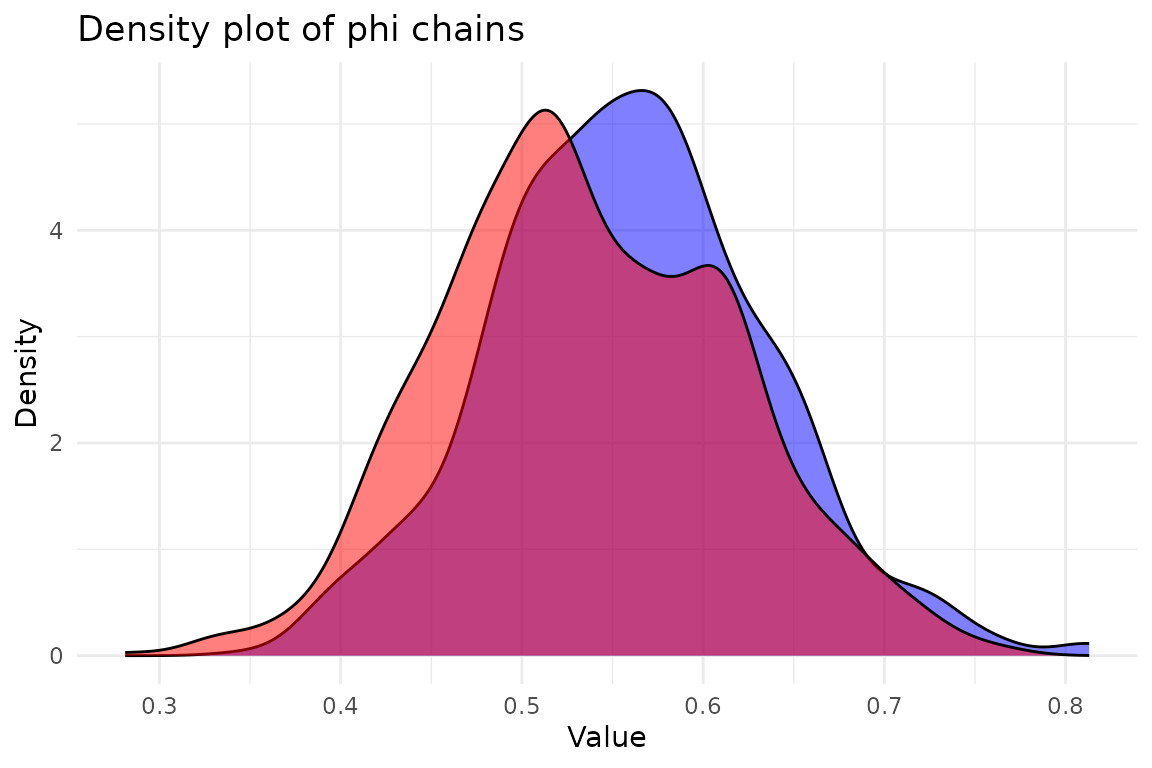
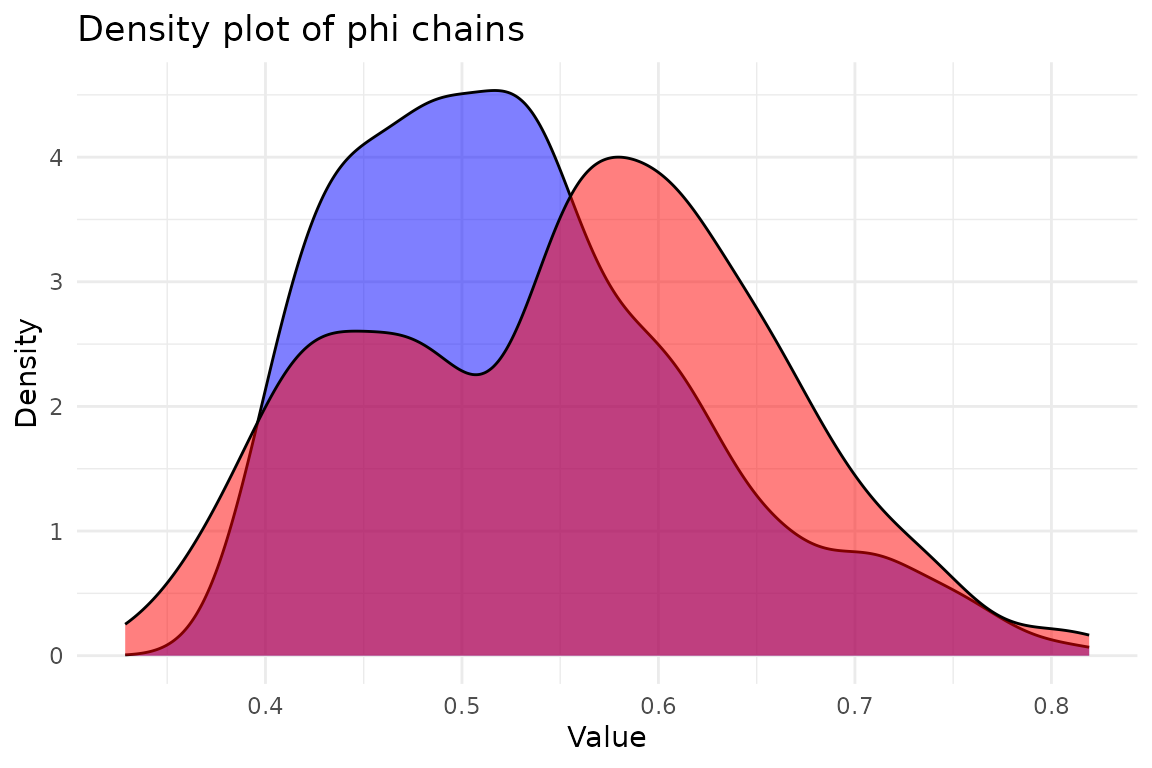
Deploying to gh-pages from @ BjarkeHautop/bayesSSM@d5a0796390c3a9b15811a3c9ff2b43722e7af1f8 🚀

diff --git a/articles/bayesSSM.html b/articles/bayesSSM.html
@@ -26,7 +26,7 @@
 
     <a class="navbar-brand me-2" href="../index.html">bayesSSM</a>
 
-    <small class="nav-text text-muted me-auto" data-bs-toggle="tooltip" data-bs-placement="bottom" title="">0.2.0</small>
+    <small class="nav-text text-muted me-auto" data-bs-toggle="tooltip" data-bs-placement="bottom" title="">0.2.1</small>
 
 
     <button class="navbar-toggler" type="button" data-bs-toggle="collapse" data-bs-target="#navbar" aria-controls="navbar" aria-expanded="false" aria-label="Toggle navigation">
@@ -170,20 +170,24 @@ particles and proposal distribution for the parameters. The tuning can
 be modified by the the function <code>default_tune_control</code>. We
 will use the default settings.</p>
 <p>We fit 2 chains with
-<math display="inline" xmlns="http://www.w3.org/1998/Math/MathML"><semantics><mrow><mi>m</mi><mo>=</mo><mn>2000</mn></mrow><annotation encoding="application/x-tex">m=2000</annotation></semantics></math>
+<math display="inline" xmlns="http://www.w3.org/1998/Math/MathML"><semantics><mrow><mi>m</mi><mo>=</mo><mn>1000</mn></mrow><annotation encoding="application/x-tex">m=1000</annotation></semantics></math>
 iterations for each, with a burn_in of
 <math display="inline" xmlns="http://www.w3.org/1998/Math/MathML"><semantics><mn>500</mn><annotation encoding="application/x-tex">500</annotation></semantics></math>.
-In practice you should run more iterations and chains. To improve
-sampling we specify that metropolis hastings should specify
+We also modify the tuning to only use a pilot run of
+<math display="inline" xmlns="http://www.w3.org/1998/Math/MathML"><semantics><mn>100</mn><annotation encoding="application/x-tex">100</annotation></semantics></math>
+iterations and
+<math display="inline" xmlns="http://www.w3.org/1998/Math/MathML"><semantics><mn>10</mn><annotation encoding="application/x-tex">10</annotation></semantics></math>
+burn-in iterations. In practice you should run more iterations and
+chains. To improve sampling we specify that proposals for
 <math display="inline" xmlns="http://www.w3.org/1998/Math/MathML"><semantics><msub><mi>σ</mi><mi>x</mi></msub><annotation encoding="application/x-tex">\sigma_x</annotation></semantics></math>
 and
 <math display="inline" xmlns="http://www.w3.org/1998/Math/MathML"><semantics><msub><mi>σ</mi><mi>y</mi></msub><annotation encoding="application/x-tex">\sigma_y</annotation></semantics></math>
-on the
+should be on the
 <math display="inline" xmlns="http://www.w3.org/1998/Math/MathML"><semantics><mo>log</mo><annotation encoding="application/x-tex">\log</annotation></semantics></math>-scale.</p>
 <div class="sourceCode" id="cb6"><pre class="downlit sourceCode r">
 <code class="sourceCode R"><span><span class="va">result</span> <span class="op">&lt;-</span> <span class="fu"><a href="../reference/pmmh.html">pmmh</a></span><span class="op">(</span></span>
 <span>  y <span class="op">=</span> <span class="va">y</span>,</span>
-<span>  m <span class="op">=</span> <span class="fl">2000</span>,</span>
+<span>  m <span class="op">=</span> <span class="fl">1000</span>,</span>
 <span>  init_fn <span class="op">=</span> <span class="va">init_fn</span>,</span>
 <span>  transition_fn <span class="op">=</span> <span class="va">transition_fn</span>,</span>
 <span>  log_likelihood_fn <span class="op">=</span> <span class="va">log_likelihood_fn</span>,</span>
@@ -197,40 +201,45 @@ on the
 <span>    sigma_x <span class="op">=</span> <span class="st">"log"</span>,</span>
 <span>    sigma_y <span class="op">=</span> <span class="st">"log"</span></span>
 <span>  <span class="op">)</span>,</span>
+<span>  tune_control <span class="op">=</span> <span class="fu"><a href="../reference/default_tune_control.html">default_tune_control</a></span><span class="op">(</span>pilot_m <span class="op">=</span> <span class="fl">100</span>, pilot_burn_in <span class="op">=</span> <span class="fl">10</span><span class="op">)</span>,</span>
 <span>  verbose <span class="op">=</span> <span class="cn">TRUE</span></span>
 <span><span class="op">)</span></span>
 <span><span class="co">#&gt; Running chain 1...</span></span>
 <span><span class="co">#&gt; Running pilot chain for tuning...</span></span>
 <span><span class="co">#&gt; Pilot chain posterior mean:</span></span>
 <span><span class="co">#&gt;       phi   sigma_x   sigma_y </span></span>
-<span><span class="co">#&gt; 0.8202326 0.9126852 0.5095414</span></span>
+<span><span class="co">#&gt; 0.8544286 0.7186304 0.5237435</span></span>
 <span><span class="co">#&gt; Pilot chain posterior covariance (on transformed space):</span></span>
-<span><span class="co">#&gt;                  phi      sigma_x      sigma_y</span></span>
-<span><span class="co">#&gt; phi      0.004138967 -0.003826011  0.002425618</span></span>
-<span><span class="co">#&gt; sigma_x -0.003826011  0.017718196 -0.008860731</span></span>
-<span><span class="co">#&gt; sigma_y  0.002425618 -0.008860731  0.022968484</span></span>
-<span><span class="co">#&gt; Using 128 particles for PMMH:</span></span>
+<span><span class="co">#&gt;                   phi       sigma_x      sigma_y</span></span>
+<span><span class="co">#&gt; phi      0.0022127563  0.0007426653 -0.002837817</span></span>
+<span><span class="co">#&gt; sigma_x  0.0007426653  0.0004378663 -0.002457423</span></span>
+<span><span class="co">#&gt; sigma_y -0.0028378172 -0.0024574227  0.015648225</span></span>
+<span><span class="co">#&gt; Using 276 particles for PMMH:</span></span>
 <span><span class="co">#&gt; Running particle MCMC chain with tuned settings...</span></span>
 <span><span class="co">#&gt; Running chain 2...</span></span>
 <span><span class="co">#&gt; Running pilot chain for tuning...</span></span>
 <span><span class="co">#&gt; Pilot chain posterior mean:</span></span>
 <span><span class="co">#&gt;       phi   sigma_x   sigma_y </span></span>
-<span><span class="co">#&gt; 0.8425068 0.9447028 0.4638934</span></span>
+<span><span class="co">#&gt; 0.8184567 1.0644745 0.3392965</span></span>
 <span><span class="co">#&gt; Pilot chain posterior covariance (on transformed space):</span></span>
-<span><span class="co">#&gt;                  phi       sigma_x       sigma_y</span></span>
-<span><span class="co">#&gt; phi     0.0036710898  0.0006502838  0.0007375195</span></span>
-<span><span class="co">#&gt; sigma_x 0.0006502838  0.0171536749 -0.0107139660</span></span>
-<span><span class="co">#&gt; sigma_y 0.0007375195 -0.0107139660  0.0255870433</span></span>
-<span><span class="co">#&gt; Using 160 particles for PMMH:</span></span>
+<span><span class="co">#&gt;                 phi      sigma_x      sigma_y</span></span>
+<span><span class="co">#&gt; phi     0.003821179 0.0028295500 0.0011276751</span></span>
+<span><span class="co">#&gt; sigma_x 0.002829550 0.0032576751 0.0007982934</span></span>
+<span><span class="co">#&gt; sigma_y 0.001127675 0.0007982934 0.0004036178</span></span>
+<span><span class="co">#&gt; Using 212 particles for PMMH:</span></span>
 <span><span class="co">#&gt; Running particle MCMC chain with tuned settings...</span></span>
 <span><span class="co">#&gt; PMMH Results Summary:</span></span>
 <span><span class="co">#&gt;  Parameter Mean   SD Median CI.2.5% CI.97.5% ESS  Rhat</span></span>
-<span><span class="co">#&gt;        phi 0.84 0.06   0.84    0.72     0.96 155 1.000</span></span>
-<span><span class="co">#&gt;    sigma_x 0.92 0.14   0.93    0.65     1.20  34 1.001</span></span>
-<span><span class="co">#&gt;    sigma_y 0.42 0.19   0.41    0.11     0.82   5 1.010</span></span>
-<span><span class="co">#&gt; Warning in pmmh(y = y, m = 2000, init_fn = init_fn, transition_fn =</span></span>
+<span><span class="co">#&gt;        phi 0.85 0.06   0.85    0.75     0.97  61 1.008</span></span>
+<span><span class="co">#&gt;    sigma_x 0.81 0.12   0.75    0.69     1.11   1 1.049</span></span>
+<span><span class="co">#&gt;    sigma_y 0.49 0.10   0.47    0.34     0.75   3 1.000</span></span>
+<span><span class="co">#&gt; Warning in pmmh(y = y, m = 1000, init_fn = init_fn, transition_fn =</span></span>
 <span><span class="co">#&gt; transition_fn, : Some ESS values are below 400, indicating poor mixing.</span></span>
-<span><span class="co">#&gt; Consider running the chains for more iterations.</span></span></code></pre></div>
+<span><span class="co">#&gt; Consider running the chains for more iterations.</span></span>
+<span><span class="co">#&gt; Warning in pmmh(y = y, m = 1000, init_fn = init_fn, transition_fn =</span></span>
+<span><span class="co">#&gt; transition_fn, : Some Rhat values are above 1.01, indicating that the chains</span></span>
+<span><span class="co">#&gt; have not converged. Consider running the chains for more iterations and/or</span></span>
+<span><span class="co">#&gt; increase burn_in.</span></span></code></pre></div>
 <p>We see that the chains gives convergence issues, indicating that we
 should run it for more iterations, but we ignore this issue in this
 Vignette.</p>
@@ -241,9 +250,9 @@ be printed from any <code>pmmh_output</code> object by calling
 <code class="sourceCode R"><span><span class="fu"><a href="https://rdrr.io/r/base/print.html" class="external-link">print</a></span><span class="op">(</span><span class="va">result</span><span class="op">)</span></span>
 <span><span class="co">#&gt; PMMH Results Summary:</span></span>
 <span><span class="co">#&gt;  Parameter Mean   SD Median CI.2.5% CI.97.5% ESS  Rhat</span></span>
-<span><span class="co">#&gt;        phi 0.84 0.06   0.84    0.72     0.96 155 1.000</span></span>
-<span><span class="co">#&gt;    sigma_x 0.92 0.14   0.93    0.65     1.20  34 1.001</span></span>
-<span><span class="co">#&gt;    sigma_y 0.42 0.19   0.41    0.11     0.82   5 1.010</span></span></code></pre></div>
+<span><span class="co">#&gt;        phi 0.85 0.06   0.85    0.75     0.97  61 1.008</span></span>
+<span><span class="co">#&gt;    sigma_x 0.81 0.12   0.75    0.69     1.11   1 1.049</span></span>
+<span><span class="co">#&gt;    sigma_y 0.49 0.10   0.47    0.34     0.75   3 1.000</span></span></code></pre></div>
 <p>The chains are saved as <code>theta_chain</code></p>
 <div class="sourceCode" id="cb8"><pre class="downlit sourceCode r">
 <code class="sourceCode R"><span><span class="va">chains</span> <span class="op">&lt;-</span> <span class="va">result</span><span class="op">$</span><span class="va">theta_chain</span></span>

diff --git a/reference/dot-compute_log_jacobian.html b/reference/dot-compute_log_jacobian.html
@@ -1,5 +1,5 @@
 <!DOCTYPE html>
-<!-- Generated by pkgdown: do not edit by hand --><html lang="en"><head><meta http-equiv="Content-Type" content="text/html; charset=UTF-8"><meta charset="utf-8"><meta http-equiv="X-UA-Compatible" content="IE=edge"><meta name="viewport" content="width=device-width, initial-scale=1, shrink-to-fit=no"><title>Internal function to back-transform parameters — .back_transform_params • bayesSSM</title><!-- favicons --><link rel="icon" type="image/png" sizes="16x16" href="../favicon-16x16.png"><link rel="icon" type="image/png" sizes="32x32" href="../favicon-32x32.png"><link rel="apple-touch-icon" type="image/png" sizes="180x180" href="../apple-touch-icon.png"><link rel="apple-touch-icon" type="image/png" sizes="120x120" href="../apple-touch-icon-120x120.png"><link rel="apple-touch-icon" type="image/png" sizes="76x76" href="../apple-touch-icon-76x76.png"><link rel="apple-touch-icon" type="image/png" sizes="60x60" href="../apple-touch-icon-60x60.png"><script src="../deps/jquery-3.6.0/jquery-3.6.0.min.js"></script><meta name="viewport" content="width=device-width, initial-scale=1, shrink-to-fit=no"><link href="../deps/bootstrap-5.3.1/bootstrap.min.css" rel="stylesheet"><script src="../deps/bootstrap-5.3.1/bootstrap.bundle.min.js"></script><link href="../deps/font-awesome-6.5.2/css/all.min.css" rel="stylesheet"><link href="../deps/font-awesome-6.5.2/css/v4-shims.min.css" rel="stylesheet"><script src="../deps/headroom-0.11.0/headroom.min.js"></script><script src="../deps/headroom-0.11.0/jQuery.headroom.min.js"></script><script src="../deps/bootstrap-toc-1.0.1/bootstrap-toc.min.js"></script><script src="../deps/clipboard.js-2.0.11/clipboard.min.js"></script><script src="../deps/search-1.0.0/autocomplete.jquery.min.js"></script><script src="../deps/search-1.0.0/fuse.min.js"></script><script src="../deps/search-1.0.0/mark.min.js"></script><!-- pkgdown --><script src="../pkgdown.js"></script><meta property="og:title" content="Internal function to back-transform parameters — .back_transform_params"><meta name="description" content="Internal function to back-transform parameters"><meta property="og:description" content="Internal function to back-transform parameters"><meta property="og:image" content="https://bjarkehautop.github.io/bayesSSM/logo.png"></head><body>
+<!-- Generated by pkgdown: do not edit by hand --><html lang="en"><head><meta http-equiv="Content-Type" content="text/html; charset=UTF-8"><meta charset="utf-8"><meta http-equiv="X-UA-Compatible" content="IE=edge"><meta name="viewport" content="width=device-width, initial-scale=1, shrink-to-fit=no"><title>Internal function to compute the Jacobian of the transformation — .compute_log_jacobian • bayesSSM</title><!-- favicons --><link rel="icon" type="image/png" sizes="16x16" href="../favicon-16x16.png"><link rel="icon" type="image/png" sizes="32x32" href="../favicon-32x32.png"><link rel="apple-touch-icon" type="image/png" sizes="180x180" href="../apple-touch-icon.png"><link rel="apple-touch-icon" type="image/png" sizes="120x120" href="../apple-touch-icon-120x120.png"><link rel="apple-touch-icon" type="image/png" sizes="76x76" href="../apple-touch-icon-76x76.png"><link rel="apple-touch-icon" type="image/png" sizes="60x60" href="../apple-touch-icon-60x60.png"><script src="../deps/jquery-3.6.0/jquery-3.6.0.min.js"></script><meta name="viewport" content="width=device-width, initial-scale=1, shrink-to-fit=no"><link href="../deps/bootstrap-5.3.1/bootstrap.min.css" rel="stylesheet"><script src="../deps/bootstrap-5.3.1/bootstrap.bundle.min.js"></script><link href="../deps/font-awesome-6.5.2/css/all.min.css" rel="stylesheet"><link href="../deps/font-awesome-6.5.2/css/v4-shims.min.css" rel="stylesheet"><script src="../deps/headroom-0.11.0/headroom.min.js"></script><script src="../deps/headroom-0.11.0/jQuery.headroom.min.js"></script><script src="../deps/bootstrap-toc-1.0.1/bootstrap-toc.min.js"></script><script src="../deps/clipboard.js-2.0.11/clipboard.min.js"></script><script src="../deps/search-1.0.0/autocomplete.jquery.min.js"></script><script src="../deps/search-1.0.0/fuse.min.js"></script><script src="../deps/search-1.0.0/mark.min.js"></script><!-- pkgdown --><script src="../pkgdown.js"></script><meta property="og:title" content="Internal function to compute the Jacobian of the transformation — .compute_log_jacobian"><meta name="description" content="Internal function to compute the Jacobian of the transformation"><meta property="og:description" content="Internal function to compute the Jacobian of the transformation"><meta property="og:image" content="https://bjarkehautop.github.io/bayesSSM/logo.png"></head><body>
     <a href="#main" class="visually-hidden-focusable">Skip to contents</a>
 
 
@@ -31,26 +31,26 @@
 </nav><div class="container template-reference-topic">
 <div class="row">
   <main id="main" class="col-md-9"><div class="page-header">
-      <img src="../logo.png" class="logo" alt=""><h1>Internal function to back-transform parameters</h1>
+      <img src="../logo.png" class="logo" alt=""><h1>Internal function to compute the Jacobian of the transformation</h1>
       <small class="dont-index">Source: <a href="https://github.com/BjarkeHautop/bayesSSM/blob/master/R/utils.R" class="external-link"><code>R/utils.R</code></a></small>
-      <div class="d-none name"><code>dot-back_transform_params.Rd</code></div>
+      <div class="d-none name"><code>dot-compute_log_jacobian.Rd</code></div>
     </div>
 
     <div class="ref-description section level2">
-    <p>Internal function to back-transform parameters</p>
+    <p>Internal function to compute the Jacobian of the transformation</p>
     </div>
 
     <div class="section level2">
     <h2 id="ref-usage">Usage<a class="anchor" aria-label="anchor" href="#ref-usage"></a></h2>
-    <div class="sourceCode"><pre class="sourceCode r"><code><span><span class="fu">.back_transform_params</span><span class="op">(</span><span class="va">theta_trans</span>, <span class="va">transform</span><span class="op">)</span></span></code></pre></div>
+    <div class="sourceCode"><pre class="sourceCode r"><code><span><span class="fu">.compute_log_jacobian</span><span class="op">(</span><span class="va">theta</span>, <span class="va">transform</span><span class="op">)</span></span></code></pre></div>
     </div>
 
     <div class="section level2">
     <h2 id="arguments">Arguments<a class="anchor" aria-label="anchor" href="#arguments"></a></h2>
 
 
-<dl><dt id="arg-theta-trans">theta_trans<a class="anchor" aria-label="anchor" href="#arg-theta-trans"></a></dt>
-<dd><p>transformed parameter vector</p></dd>
+<dl><dt id="arg-theta">theta<a class="anchor" aria-label="anchor" href="#arg-theta"></a></dt>
+<dd><p>parameter vector (on original scale)</p></dd>
 
 
 <dt id="arg-transform">transform<a class="anchor" aria-label="anchor" href="#arg-transform"></a></dt>
@@ -59,7 +59,7 @@
 </dl></div>
     <div class="section level2">
     <h2 id="value">Value<a class="anchor" aria-label="anchor" href="#value"></a></h2>
-    <p>original parameter vector</p>
+    <p>log-Jacobian of the transformation</p>
     </div>
 
   </main><aside class="col-md-3"><nav id="toc" aria-label="Table of contents"><h2>On this page</h2>

diff --git a/articles/sir-model.html b/articles/sir-model.html
@@ -26,7 +26,7 @@
 
     <a class="navbar-brand me-2" href="../index.html">bayesSSM</a>
 
-    <small class="nav-text text-muted me-auto" data-bs-toggle="tooltip" data-bs-placement="bottom" title="">0.2.0</small>
+    <small class="nav-text text-muted me-auto" data-bs-toggle="tooltip" data-bs-placement="bottom" title="">0.2.1</small>
 
 
     <button class="navbar-toggler" type="button" data-bs-toggle="collapse" data-bs-target="#navbar" aria-controls="navbar" aria-expanded="false" aria-label="Toggle navigation">
@@ -382,7 +382,8 @@ for the SIR model.</p>
 <span><span class="op">}</span></span></code></pre></div>
 <p>Now we can run the PMMH algorithm to estimate the parameters. For
 this vignette we only use a small number of iterations (1000) and 2
-chains. In practice, these should be higher.</p>
+chains (and we also modify the tuning to only use 100 iterations with a
+burn-in of 10). In practice, these should be much higher.</p>
 <div class="sourceCode" id="cb7"><pre class="downlit sourceCode r">
 <code class="sourceCode R"><span><span class="va">result</span> <span class="op">&lt;-</span> <span class="fu">bayesSSM</span><span class="fu">::</span><span class="fu"><a href="../reference/pmmh.html">pmmh</a></span><span class="op">(</span></span>
 <span>  y <span class="op">=</span> <span class="va">observations</span>,</span>
@@ -395,7 +396,7 @@ chains. In practice, these should be higher.</p>
 <span>  burn_in <span class="op">=</span> <span class="fl">200</span>,</span>
 <span>  num_chains <span class="op">=</span> <span class="fl">2</span>,</span>
 <span>  param_transform <span class="op">=</span> <span class="fu"><a href="https://rdrr.io/r/base/list.html" class="external-link">list</a></span><span class="op">(</span>lambda <span class="op">=</span> <span class="st">"log"</span>, gamma <span class="op">=</span> <span class="st">"log"</span><span class="op">)</span>,</span>
-<span>  tune_control <span class="op">=</span> <span class="fu"><a href="../reference/default_tune_control.html">default_tune_control</a></span><span class="op">(</span>pilot_proposal_sd <span class="op">=</span> <span class="fl">0.1</span><span class="op">)</span>,</span>
+<span>  tune_control <span class="op">=</span> <span class="fu"><a href="../reference/default_tune_control.html">default_tune_control</a></span><span class="op">(</span>pilot_m <span class="op">=</span> <span class="fl">100</span>, pilot_burn_in <span class="op">=</span> <span class="fl">10</span><span class="op">)</span>,</span>
 <span>  verbose <span class="op">=</span> <span class="cn">TRUE</span>,</span>
 <span>  seed <span class="op">=</span> <span class="fl">1405</span>,</span>
 <span><span class="op">)</span></span>
@@ -403,28 +404,28 @@ chains. In practice, these should be higher.</p>
 <span><span class="co">#&gt; Running pilot chain for tuning...</span></span>
 <span><span class="co">#&gt; Pilot chain posterior mean:</span></span>
 <span><span class="co">#&gt;    lambda     gamma </span></span>
-<span><span class="co">#&gt; 0.5504843 0.2090465</span></span>
+<span><span class="co">#&gt; 0.5548529 0.1913232</span></span>
 <span><span class="co">#&gt; Pilot chain posterior covariance (on transformed space):</span></span>
 <span><span class="co">#&gt;              lambda        gamma</span></span>
-<span><span class="co">#&gt; lambda 0.0045648972 0.0009780776</span></span>
-<span><span class="co">#&gt; gamma  0.0009780776 0.0004481566</span></span>
+<span><span class="co">#&gt; lambda 0.0008844233 1.541392e-04</span></span>
+<span><span class="co">#&gt; gamma  0.0001541392 2.686372e-05</span></span>
 <span><span class="co">#&gt; Using 100 particles for PMMH:</span></span>
 <span><span class="co">#&gt; Running particle MCMC chain with tuned settings...</span></span>
 <span><span class="co">#&gt; Running chain 2...</span></span>
 <span><span class="co">#&gt; Running pilot chain for tuning...</span></span>
 <span><span class="co">#&gt; Pilot chain posterior mean:</span></span>
 <span><span class="co">#&gt;    lambda     gamma </span></span>
-<span><span class="co">#&gt; 0.5303249 0.1992298</span></span>
+<span><span class="co">#&gt; 0.4330822 0.1846308</span></span>
 <span><span class="co">#&gt; Pilot chain posterior covariance (on transformed space):</span></span>
 <span><span class="co">#&gt;             lambda        gamma</span></span>
-<span><span class="co">#&gt; lambda 0.007712153 0.0019398601</span></span>
-<span><span class="co">#&gt; gamma  0.001939860 0.0007560087</span></span>
+<span><span class="co">#&gt; lambda 0.002879192 0.0014148984</span></span>
+<span><span class="co">#&gt; gamma  0.001414898 0.0008559071</span></span>
 <span><span class="co">#&gt; Using 100 particles for PMMH:</span></span>
 <span><span class="co">#&gt; Running particle MCMC chain with tuned settings...</span></span>
 <span><span class="co">#&gt; PMMH Results Summary:</span></span>
 <span><span class="co">#&gt;  Parameter Mean   SD Median CI.2.5% CI.97.5% ESS  Rhat</span></span>
-<span><span class="co">#&gt;     lambda 0.55 0.08   0.55    0.40     0.71  85 1.063</span></span>
-<span><span class="co">#&gt;      gamma 0.20 0.02   0.20    0.16     0.25 145 1.008</span></span>
+<span><span class="co">#&gt;     lambda 0.54 0.10   0.54    0.39     0.74  25 1.117</span></span>
+<span><span class="co">#&gt;      gamma 0.20 0.02   0.19    0.16     0.25   3 1.051</span></span>
 <span><span class="co">#&gt; Warning in bayesSSM::pmmh(y = observations, m = 1000, init_fn =</span></span>
 <span><span class="co">#&gt; init_fn_epidemic, : Some ESS values are below 400, indicating poor mixing.</span></span>
 <span><span class="co">#&gt; Consider running the chains for more iterations.</span></span>

diff --git a/reference/print.pmmh_output.html b/reference/print.pmmh_output.html
@@ -7,7 +7,7 @@
 
     <a class="navbar-brand me-2" href="../index.html">bayesSSM</a>
 
-    <small class="nav-text text-muted me-auto" data-bs-toggle="tooltip" data-bs-placement="bottom" title="">0.2.0</small>
+    <small class="nav-text text-muted me-auto" data-bs-toggle="tooltip" data-bs-placement="bottom" title="">0.2.1</small>
 
 
     <button class="navbar-toggler" type="button" data-bs-toggle="collapse" data-bs-target="#navbar" aria-controls="navbar" aria-expanded="false" aria-label="Toggle navigation">
@@ -65,9 +65,23 @@
 
     <div class="section level2">
     <h2 id="ref-examples">Examples<a class="anchor" aria-label="anchor" href="#ref-examples"></a></h2>
-    <div class="sourceCode"><pre class="sourceCode r"><code><span class="r-in"><span><span class="kw">if</span> <span class="op">(</span><span class="cn">FALSE</span><span class="op">)</span> <span class="op">{</span> <span class="co"># \dontrun{</span></span></span>
-<span class="r-in"><span><span class="fu"><a href="https://rdrr.io/r/base/print.html" class="external-link">print</a></span><span class="op">(</span><span class="va">pmmh_output</span><span class="op">)</span></span></span>
-<span class="r-in"><span><span class="op">}</span> <span class="co"># }</span></span></span>
+    <div class="sourceCode"><pre class="sourceCode r"><code><span class="r-in"><span><span class="co"># Create dummy chains for two parameters across two chains</span></span></span>
+<span class="r-in"><span><span class="fu"><a href="https://rdrr.io/r/base/Random.html" class="external-link">set.seed</a></span><span class="op">(</span><span class="fl">1405</span><span class="op">)</span></span></span>
+<span class="r-in"><span><span class="va">chain1</span> <span class="op">&lt;-</span> <span class="fu"><a href="https://rdrr.io/r/base/data.frame.html" class="external-link">data.frame</a></span><span class="op">(</span>param1 <span class="op">=</span> <span class="fu"><a href="https://rdrr.io/r/stats/Normal.html" class="external-link">rnorm</a></span><span class="op">(</span><span class="fl">100</span><span class="op">)</span>, param2 <span class="op">=</span> <span class="fu"><a href="https://rdrr.io/r/stats/Normal.html" class="external-link">rnorm</a></span><span class="op">(</span><span class="fl">100</span><span class="op">)</span><span class="op">)</span></span></span>
+<span class="r-in"><span><span class="va">chain2</span> <span class="op">&lt;-</span> <span class="fu"><a href="https://rdrr.io/r/base/data.frame.html" class="external-link">data.frame</a></span><span class="op">(</span>param1 <span class="op">=</span> <span class="fu"><a href="https://rdrr.io/r/stats/Normal.html" class="external-link">rnorm</a></span><span class="op">(</span><span class="fl">100</span><span class="op">)</span>, param2 <span class="op">=</span> <span class="fu"><a href="https://rdrr.io/r/stats/Normal.html" class="external-link">rnorm</a></span><span class="op">(</span><span class="fl">100</span><span class="op">)</span><span class="op">)</span></span></span>
+<span class="r-in"><span><span class="va">dummy_output</span> <span class="op">&lt;-</span> <span class="fu"><a href="https://rdrr.io/r/base/list.html" class="external-link">list</a></span><span class="op">(</span></span></span>
+<span class="r-in"><span>  theta_chain <span class="op">=</span> <span class="fu"><a href="https://rdrr.io/r/base/list.html" class="external-link">list</a></span><span class="op">(</span><span class="va">chain1</span>, <span class="va">chain2</span><span class="op">)</span>,</span></span>
+<span class="r-in"><span>  diagnostics <span class="op">=</span> <span class="fu"><a href="https://rdrr.io/r/base/list.html" class="external-link">list</a></span><span class="op">(</span></span></span>
+<span class="r-in"><span>    ess <span class="op">=</span> <span class="fu"><a href="https://rdrr.io/r/base/c.html" class="external-link">c</a></span><span class="op">(</span>param1 <span class="op">=</span> <span class="fl">200</span>, param2 <span class="op">=</span> <span class="fl">190</span><span class="op">)</span>,</span></span>
+<span class="r-in"><span>    rhat <span class="op">=</span> <span class="fu"><a href="https://rdrr.io/r/base/c.html" class="external-link">c</a></span><span class="op">(</span>param1 <span class="op">=</span> <span class="fl">1.01</span>, param2 <span class="op">=</span> <span class="fl">1.00</span><span class="op">)</span></span></span>
+<span class="r-in"><span>  <span class="op">)</span></span></span>
+<span class="r-in"><span><span class="op">)</span></span></span>
+<span class="r-in"><span><span class="fu"><a href="https://rdrr.io/r/base/class.html" class="external-link">class</a></span><span class="op">(</span><span class="va">dummy_output</span><span class="op">)</span> <span class="op">&lt;-</span> <span class="st">"pmmh_output"</span></span></span>
+<span class="r-in"><span><span class="fu"><a href="https://rdrr.io/r/base/print.html" class="external-link">print</a></span><span class="op">(</span><span class="va">dummy_output</span><span class="op">)</span></span></span>
+<span class="r-out co"><span class="r-pr">#&gt;</span> PMMH Results Summary:</span>
+<span class="r-out co"><span class="r-pr">#&gt;</span>  Parameter  Mean   SD Median CI.2.5% CI.97.5% ESS Rhat</span>
+<span class="r-out co"><span class="r-pr">#&gt;</span>     param1 -0.02 0.94   0.04   -1.85     1.71 200 1.01</span>
+<span class="r-out co"><span class="r-pr">#&gt;</span>     param2  0.03 1.01   0.00   -1.84     2.40 190 1.00</span>
 </code></pre></div>
     </div>
   </main><aside class="col-md-3"><nav id="toc" aria-label="Table of contents"><h2>On this page</h2>

diff --git a/reference/rhat.html b/reference/rhat.html
@@ -7,7 +7,7 @@
 
     <a class="navbar-brand me-2" href="../index.html">bayesSSM</a>
 
-    <small class="nav-text text-muted me-auto" data-bs-toggle="tooltip" data-bs-placement="bottom" title="">0.2.0</small>
+    <small class="nav-text text-muted me-auto" data-bs-toggle="tooltip" data-bs-placement="bottom" title="">0.2.1</small>
 
 
     <button class="navbar-toggler" type="button" data-bs-toggle="collapse" data-bs-target="#navbar" aria-controls="navbar" aria-expanded="false" aria-label="Toggle navigation">
@@ -70,7 +70,7 @@
     <h2 id="ref-examples">Examples<a class="anchor" aria-label="anchor" href="#ref-examples"></a></h2>
     <div class="sourceCode"><pre class="sourceCode r"><code><span class="r-in"><span><span class="va">chains</span> <span class="op">&lt;-</span> <span class="fu"><a href="https://rdrr.io/r/base/matrix.html" class="external-link">matrix</a></span><span class="op">(</span><span class="fu"><a href="https://rdrr.io/r/stats/Normal.html" class="external-link">rnorm</a></span><span class="op">(</span><span class="fl">3000</span><span class="op">)</span>, nrow <span class="op">=</span> <span class="fl">1000</span>, ncol <span class="op">=</span> <span class="fl">3</span><span class="op">)</span></span></span>
 <span class="r-in"><span><span class="fu">rhat</span><span class="op">(</span><span class="va">chains</span><span class="op">)</span></span></span>
-<span class="r-out co"><span class="r-pr">#&gt;</span> [1] 1.002278</span>
+<span class="r-out co"><span class="r-pr">#&gt;</span> [1] 1</span>
 </code></pre></div>
     </div>
   </main><aside class="col-md-3"><nav id="toc" aria-label="Table of contents"><h2>On this page</h2>

diff --git a/reference/pmmh.html b/reference/pmmh.html
@@ -13,7 +13,7 @@ particles for the particle filter, and then runs the main PMMH chain."><meta pro
 
     <a class="navbar-brand me-2" href="../index.html">bayesSSM</a>
 
-    <small class="nav-text text-muted me-auto" data-bs-toggle="tooltip" data-bs-placement="bottom" title="">0.2.0</small>
+    <small class="nav-text text-muted me-auto" data-bs-toggle="tooltip" data-bs-placement="bottom" title="">0.2.1</small>
 
 
     <button class="navbar-toggler" type="button" data-bs-toggle="collapse" data-bs-target="#navbar" aria-controls="navbar" aria-expanded="false" aria-label="Toggle navigation">
@@ -130,8 +130,8 @@ Must be one of <code>"stratified"</code>, <code>"systematic"</code>, or
 <dt id="arg-param-transform">param_transform<a class="anchor" aria-label="anchor" href="#arg-param-transform"></a></dt>
 <dd><p>An optional character vector that specifies the
 transformation applied to each parameter. Currently supports
-<code>"log"</code> and <code>"identity"</code>. If <code>NULL</code>, the <code>"identity"</code>
-transformation is used for all parameters.</p></dd>
+<code>"log"</code>, <code>"logit"</code>, and <code>"identity"</code>. If <code>NULL</code>, the
+<code>"identity"</code> transformation is used for all parameters.</p></dd>
 
 
 <dt id="arg-tune-control">tune_control<a class="anchor" aria-label="anchor" href="#arg-tune-control"></a></dt>

diff --git a/authors.html b/authors.html
@@ -7,7 +7,7 @@
 
     <a class="navbar-brand me-2" href="index.html">bayesSSM</a>
 
-    <small class="nav-text text-muted me-auto" data-bs-toggle="tooltip" data-bs-placement="bottom" title="">0.2.0</small>
+    <small class="nav-text text-muted me-auto" data-bs-toggle="tooltip" data-bs-placement="bottom" title="">0.2.1</small>
 
 
     <button class="navbar-toggler" type="button" data-bs-toggle="collapse" data-bs-target="#navbar" aria-controls="navbar" aria-expanded="false" aria-label="Toggle navigation">
@@ -49,13 +49,13 @@
 
       <p>Hautop B (2025).
 <em>bayesSSM: Bayesian Methods for State Space Models</em>.
-R package version 0.2.0, https://bjarkehautop.github.io/bayesSSM/, <a href="https://github.com/BjarkeHautop/bayesSSM" class="external-link">https://github.com/BjarkeHautop/bayesSSM</a>.
+R package version 0.2.1, https://bjarkehautop.github.io/bayesSSM/, <a href="https://github.com/BjarkeHautop/bayesSSM" class="external-link">https://github.com/BjarkeHautop/bayesSSM</a>.
 </p>
       <pre>@Manual{,
   title = {bayesSSM: Bayesian Methods for State Space Models},
   author = {Bjarke Hautop},
   year = {2025},
-  note = {R package version 0.2.0, https://bjarkehautop.github.io/bayesSSM/},
+  note = {R package version 0.2.1, https://bjarkehautop.github.io/bayesSSM/},
   url = {https://github.com/BjarkeHautop/bayesSSM},
 }</pre>
     </div>

diff --git a/reference/particle_filter.html b/reference/particle_filter.html
@@ -25,7 +25,7 @@ It is recommended to use either SISR or SISAR to avoid weight degeneracy."><meta
 
     <a class="navbar-brand me-2" href="../index.html">bayesSSM</a>
 
-    <small class="nav-text text-muted me-auto" data-bs-toggle="tooltip" data-bs-placement="bottom" title="">0.2.0</small>
+    <small class="nav-text text-muted me-auto" data-bs-toggle="tooltip" data-bs-placement="bottom" title="">0.2.1</small>
 
 
     <button class="navbar-toggler" type="button" data-bs-toggle="collapse" data-bs-target="#navbar" aria-controls="navbar" aria-expanded="false" aria-label="Toggle navigation">

diff --git a/reference/dot-resample_multinomial.html b/reference/dot-resample_multinomial.html
@@ -9,7 +9,7 @@ These functions implement multinomial, stratified, and systematic resampling."><
 
     <a class="navbar-brand me-2" href="../index.html">bayesSSM</a>
 
-    <small class="nav-text text-muted me-auto" data-bs-toggle="tooltip" data-bs-placement="bottom" title="">0.2.0</small>
+    <small class="nav-text text-muted me-auto" data-bs-toggle="tooltip" data-bs-placement="bottom" title="">0.2.1</small>
 
 
     <button class="navbar-toggler" type="button" data-bs-toggle="collapse" data-bs-target="#navbar" aria-controls="navbar" aria-expanded="false" aria-label="Toggle navigation">

diff --git a/reference/dot-pilot_run.html b/reference/dot-pilot_run.html
@@ -13,7 +13,7 @@ target number of particles for the Particle Marginal Metropolis Hastings
 
     <a class="navbar-brand me-2" href="../index.html">bayesSSM</a>
 
-    <small class="nav-text text-muted me-auto" data-bs-toggle="tooltip" data-bs-placement="bottom" title="">0.2.0</small>
+    <small class="nav-text text-muted me-auto" data-bs-toggle="tooltip" data-bs-placement="bottom" title="">0.2.1</small>
 
 
     <button class="navbar-toggler" type="button" data-bs-toggle="collapse" data-bs-target="#navbar" aria-controls="navbar" aria-expanded="false" aria-label="Toggle navigation">

diff --git a/reference/default_tune_control.html b/reference/default_tune_control.html
@@ -11,7 +11,7 @@ pmmh function. The tuning choices are inspired by Pitt et al.
 
     <a class="navbar-brand me-2" href="../index.html">bayesSSM</a>
 
-    <small class="nav-text text-muted me-auto" data-bs-toggle="tooltip" data-bs-placement="bottom" title="">0.2.0</small>
+    <small class="nav-text text-muted me-auto" data-bs-toggle="tooltip" data-bs-placement="bottom" title="">0.2.1</small>
 
 
     <button class="navbar-toggler" type="button" data-bs-toggle="collapse" data-bs-target="#navbar" aria-controls="navbar" aria-expanded="false" aria-label="Toggle navigation">

diff --git a/404.html b/404.html
@@ -27,7 +27,7 @@
 
     <a class="navbar-brand me-2" href="https://bjarkehautop.github.io/bayesSSM/index.html">bayesSSM</a>
 
-    <small class="nav-text text-muted me-auto" data-bs-toggle="tooltip" data-bs-placement="bottom" title="">0.2.0</small>
+    <small class="nav-text text-muted me-auto" data-bs-toggle="tooltip" data-bs-placement="bottom" title="">0.2.1</small>
 
 
     <button class="navbar-toggler" type="button" data-bs-toggle="collapse" data-bs-target="#navbar" aria-controls="navbar" aria-expanded="false" aria-label="Toggle navigation">
